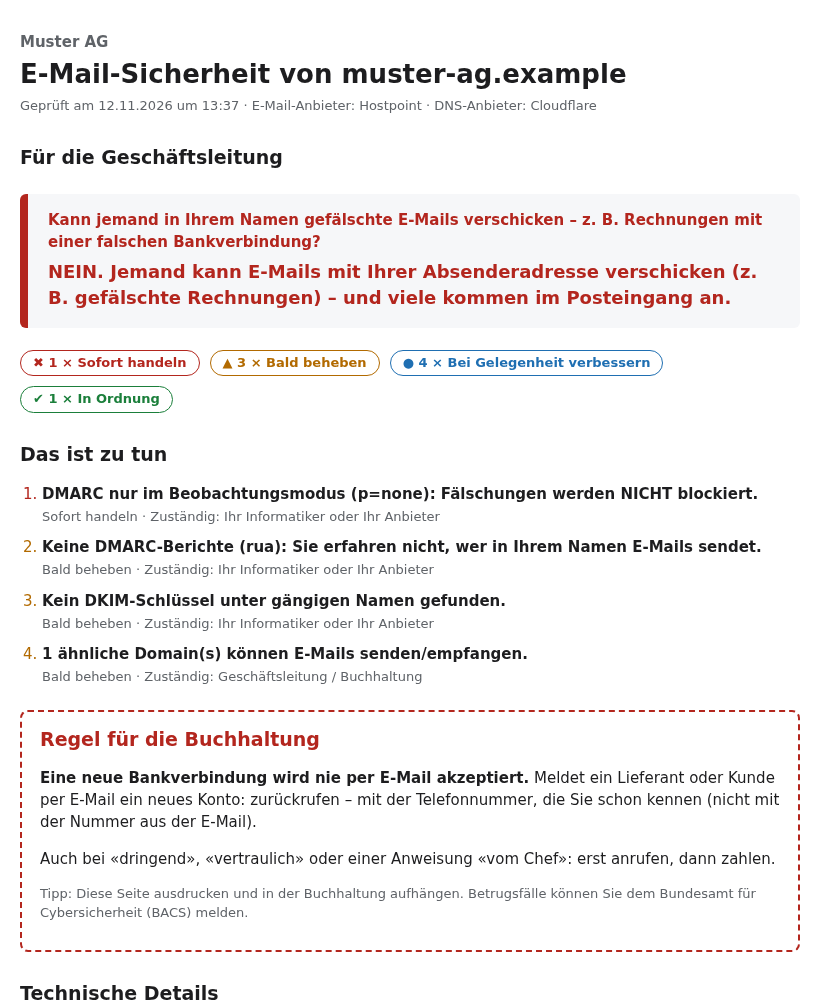
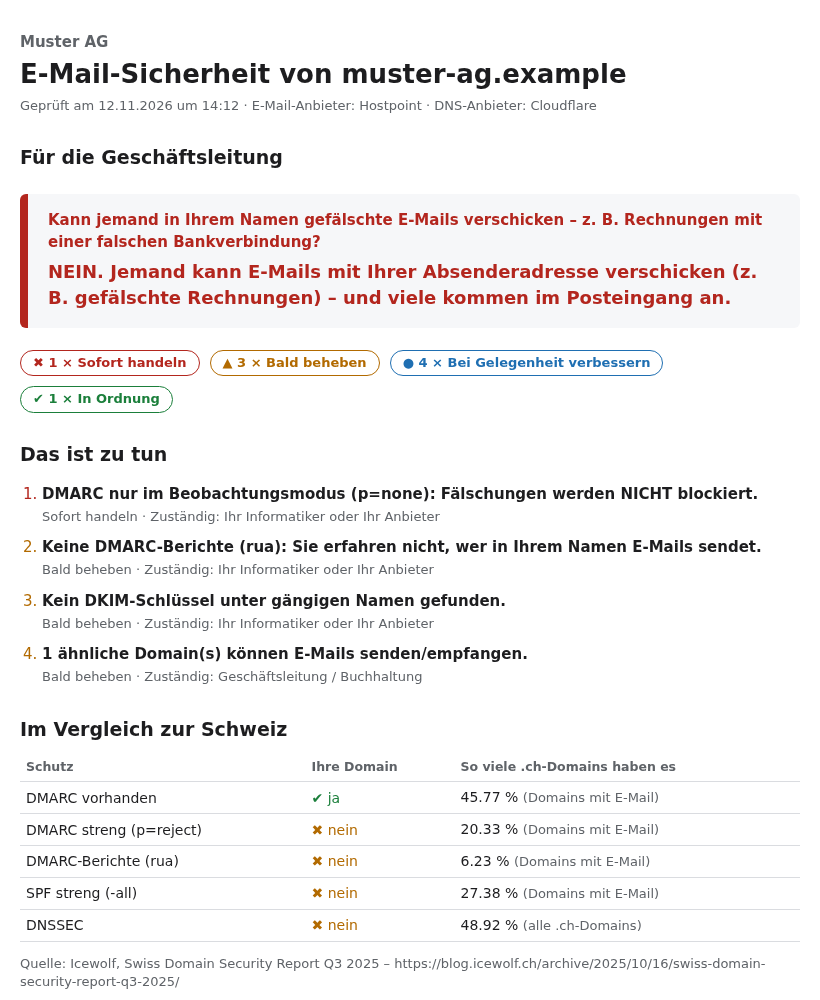
pruefstand 1.1.0: README, Beispielbericht aktualisiert

Changed region(s): [[0.0, 0.713, 0.9756, 1.0], [0.4878, 0.961, 0.7317, 0.992], [0.9451, 0.93, 0.9756, 0.961]]

diff --git a/beispiel/muster-ag.html b/beispiel/muster-ag.html
@@ -22,6 +22,11 @@ h1 { font-size: 26px; margin: 0 0 4px; } h2 { font-size: 19px; margin: 28px 0 10
 .zaehler span { border:1px solid; border-radius: 999px; padding: 3px 12px; font-size:13px; font-weight:600; }
 ol.todo { padding-left: 22px; } ol.todo li { margin-bottom: 10px; }
 ol.todo .was { color:var(--text); font-weight:600; }
+.aenderungen { background: var(--flaeche); border-radius: 6px; padding: 4px 18px 8px; margin: 18px 0; }
+.aenderungen h2 { margin-top: 12px; } .aenderungen li { margin-bottom: 4px; }
+table.vergleich { width:100%; border-collapse: collapse; font-size: 14px; margin-top: 6px; }
+table.vergleich th, table.vergleich td { text-align:left; padding: 5px 6px; border-bottom: 1px solid var(--linie); }
+table.vergleich th { font-size: 12.5px; color: var(--leise); }
 .regel { border: 2px dashed var(--kritisch); border-radius: 8px; padding: 14px 18px; margin-top: 22px; }
 .regel h2 { margin-top: 0; color: var(--kritisch); }
 .befund { border:1px solid var(--linie); border-left: 6px solid var(--farbe); border-radius: 6px;
@@ -49,7 +54,7 @@ footer { margin-top: 36px; border-top:1px solid var(--linie); padding-top: 10px;
 </style></head><body><main>
 <div class="kopfzeile"><div><div class="firma">Muster AG</div><h1><span class="domain">E-Mail-Sicherheit</span> von <span class="domain">muster-ag.example</span></h1></div>
 </div>
-<div class="meta">Geprüft am 12.11.2026 um 13:37 · E-Mail-Anbieter:
+<div class="meta">Geprüft am 12.11.2026 um 14:12 · E-Mail-Anbieter:
 Hostpoint · DNS-Anbieter:
 Cloudflare</div>
 
@@ -71,6 +76,13 @@ Cloudflare</div>
 <li class="warnung"><span class="was">Kein DKIM-Schlüssel unter gängigen Namen gefunden.</span><br><span class="meta">Bald beheben · Zuständig: Ihr Informatiker oder Ihr Anbieter</span></li>
 <li class="warnung"><span class="was">1 ähnliche Domain(s) können E-Mails senden/empfangen.</span><br><span class="meta">Bald beheben · Zuständig: Geschäftsleitung / Buchhaltung</span></li>
 </ol>
+<h2>Im Vergleich zur Schweiz</h2><table class='vergleich'><thead><tr><th>Schutz</th><th>Ihre Domain</th><th>So viele .ch-Domains haben es</th></tr></thead><tbody>
+<tr><td>DMARC vorhanden</td><td><span class="ok">✔ ja</span></td><td>45.77 % <span class='meta'>(Domains mit E-Mail)</span></td></tr>
+<tr><td>DMARC streng (p=reject)</td><td><span class="warnung">✖ nein</span></td><td>20.33 % <span class='meta'>(Domains mit E-Mail)</span></td></tr>
+<tr><td>DMARC-Berichte (rua)</td><td><span class="warnung">✖ nein</span></td><td>6.23 % <span class='meta'>(Domains mit E-Mail)</span></td></tr>
+<tr><td>SPF streng (-all)</td><td><span class="warnung">✖ nein</span></td><td>27.38 % <span class='meta'>(Domains mit E-Mail)</span></td></tr>
+<tr><td>DNSSEC</td><td><span class="warnung">✖ nein</span></td><td>48.92 % <span class='meta'>(alle .ch-Domains)</span></td></tr>
+</tbody></table><p class='meta'>Quelle: Icewolf, Swiss Domain Security Report Q3 2025 – https://blog.icewolf.ch/archive/2025/10/16/swiss-domain-security-report-q3-2025/</p>
 <div class="regel"><h2>Regel für die Buchhaltung</h2>
 <p><strong>Eine neue Bankverbindung wird nie per E-Mail akzeptiert.</strong>
 Meldet ein Lieferant oder Kunde per E-Mail ein neues Konto: zurückrufen – mit der
@@ -90,7 +102,7 @@ Fremde Server werden nur markiert, nicht abgelehnt. Mit einem strengen DMARC (qu
 <div class="befund" style="--farbe:var(--hinweis)"><div class="kopf"><span>Ähnliche Domains: 1 ähnliche Domain(s) registriert, derzeit ohne E-Mail.</span><span class="id">AEHNLICH-OHNE-MAIL</span></div><div class="status">● Bei Gelegenheit verbessern</div><pre>muster-ag-rechnung.example  (Zusatz)</pre><div><strong>Empfehlung:</strong> Beobachten: E-Mail kann jederzeit eingerichtet werden. Bei erneuter Prüfung zeigt pruefstand, ob sich etwas geändert hat.</div></div>
 <div class="befund" style="--farbe:var(--ok)"><div class="kopf"><span>MX: E-Mails werden angenommen von: Hostpoint</span><span class="id">MX-OK</span></div><div class="status">✔ In Ordnung</div><pre>Mailserver: mx1.mail.hostpoint.ch, mx2.mail.hostpoint.ch</pre></div>
 <div class="befund" style="--farbe:var(--info)"><div class="kopf"><span>NS: DNS wird verwaltet bei: Cloudflare – dort werden die Korrekturen gemacht.</span><span class="id">NS-ANBIETER</span></div><div class="status">ℹ Info</div><pre>Nameserver: anna.ns.cloudflare.com, bob.ns.cloudflare.com</pre></div>
-<footer>Erstellt mit pruefstand 1.0.0 – passiver Check: Es wurden nur öffentliche
-DNS-Daten abgefragt, ohne Zugriff auf Ihre Systeme. Der Bericht zeigt den Stand vom
+<footer>Erstellt mit pruefstand 1.1.0 – passiver Check: Es wurden nur öffentliche
+DNS-Daten abgefragt und die Webseite normal aufgerufen – ohne Zugriff auf Ihre Systeme. Der Bericht zeigt den Stand vom
 12.11.2026 und ersetzt keine vollständige Sicherheitsprüfung.</footer>
 </main></body></html>

diff --git a/src/pruefstand/__init__.py b/src/pruefstand/__init__.py
@@ -1,3 +1,3 @@
 """pruefstand – passiver Sicherheits-Check für Domains."""
 
-__version__ = "1.0.0"
+__version__ = "1.1.0"

diff --git a/README.md b/README.md
@@ -23,7 +23,13 @@ Gedacht für KMU und für IT-Dienstleister, die KMU betreuen.
 | DKIM | Sind Ihre E-Mails digital unterschrieben? |
 | DNSSEC | Sind Ihre DNS-Antworten signiert? |
 | CAA | Wer darf TLS-Zertifikate für Ihre Domain ausstellen? |
-| Ähnliche Domains | Hat jemand «rnuster-ag.ch» oder «muster-ag.com» mit E-Mail registriert? |
+| MTA-STS / TLS-RPT | Wird die Verschlüsselung eingehender E-Mails erzwungen? |
+| Sperrlisten (DNSBL) | Steht Ihr Mailserver auf einer Spam-Liste? |
+| Webseite | Zertifikat (Ablauf), HTTPS, HSTS, Sicherheits-Header, security.txt |
+| Ähnliche Domains | Hat jemand «mu5ter-ag.ch», «müster-ag.ch» oder «muster-ag.com» mit E-Mail registriert? |
+
+Dazu: **Vergleich mit allen .ch-Domains** (Icewolf, Q3 2025) und **Verlauf**: Bei jeder
+weiteren Prüfung zeigt pruefstand, was seit dem letzten Mal neu kaputt oder behoben ist.
 
 ## Installation
 
@@ -55,13 +61,27 @@ pruefstand --liste kunden.txt --ordner berichte --mit-pdf \
 Ergebnis: ein Bericht pro Kunde, `uebersicht.html` (dringendste zuerst) und
 `uebersicht.csv` (öffnet direkt in Excel).
 
+Weitere Optionen:
+
+| Option | Wirkung |
+|---|---|
+| `--sprache de-DE` | Rechtschreibung für Deutschland (ß, „…“); Standard ist `de-CH` |
+| `--ohne-web` | nur DNS, Webseite und MTA-STS-Datei nicht abrufen |
+| `--ohne-aehnliche` | Suche nach ähnlichen Domains überspringen |
+| `--online-quellen` | ähnliche Domains zusätzlich bei RDAP (Registrierdatum) und crt.sh (Zertifikate) nachschlagen – langsam, sendet diese Domainnamen an externe Dienste |
+| `--ohne-verlauf` / `--verlauf ORDNER` | Vergleich mit früheren Prüfungen aus / anderer Ordner |
+| `--dkim-selektor NAME` | zusätzlichen DKIM-Selektor prüfen |
+
 Rückgabewert: `0` alles gut · `1` Warnungen · `2` kritische Befunde · `3` Fehler.
 
 ## Datenschutz
 
-Es werden nur DNS-Abfragen gestellt – wie bei jedem Besuch einer Webseite.
-Kein Server von uns, keine Anmeldung, keine Daten in der Cloud. Der Bericht ist eine
-einzige Datei ohne externe Schriften oder Skripte.
+- Abgefragt werden öffentliche DNS-Daten und – wie bei jedem Besuch – die Startseite,
+  `/.well-known/security.txt` und die MTA-STS-Datei. Kein Scan, kein Login.
+- Sperrlisten werden per DNS gefragt (Spamhaus: frei für geringe, nicht-kommerzielle Nutzung).
+- Externe Dienste (RDAP, crt.sh) nur mit `--online-quellen`.
+- Der Verlauf bleibt auf Ihrem PC (`~/.local/share/pruefstand/verlauf`, nur für Sie lesbar).
+- Der Bericht ist eine einzige Datei ohne externe Schriften oder Skripte.
 
 ## Grundsätze
 
